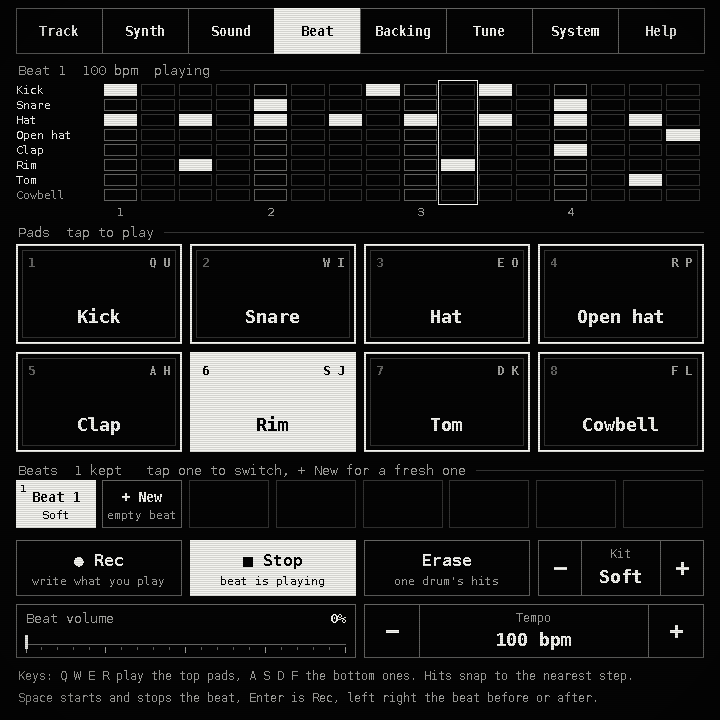
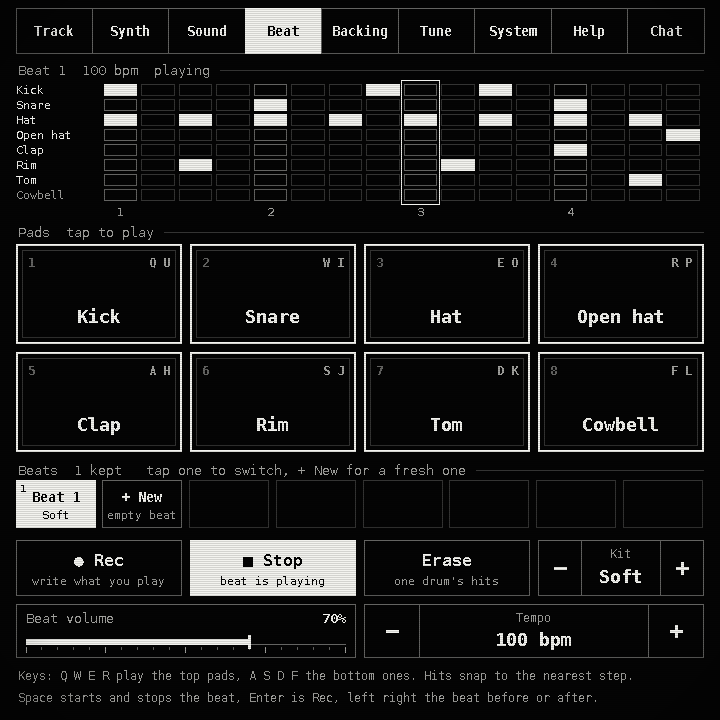
Version 0.12.1: docs corrected, cards and pictures updated

diff --git a/app/main.cpp b/app/main.cpp
@@ -29,7 +29,7 @@ int main(int argc, char **argv) {
         else if (a == "--shots" && i + 1 < argc) shots = argv[++i];
         else if (a == "--render" && i + 1 < argc) render = argv[++i];
         else if (a == "--audio" && i + 1 < argc) prefer = argv[++i];
-        else if (a == "--version") { std::printf("vrequency 0.12.0\n"); return 0; }
+        else if (a == "--version") { std::printf("vrequency 0.12.1\n"); return 0; }
         else if (a == "--help" || a == "-h") {
             std::printf("venv-vrequency - pocket string synthesiser\n\n"
                         "  vrequency               start full screen\n"

diff --git a/docs/STATUS.md b/docs/STATUS.md
@@ -1,12 +1,12 @@
 # Status — what works, what is unproven, what is missing
 
-Version 0.12.0, 2026-11-14 (0.12.0 is 0.11.0 plus guided help: the copilot can ring the controls it is talking about, the player answers from a chat dock on any page, and the Help page is redesigned around both. 0.11.0 was 0.10.0 twice over, merged: kept beats on the Beat page — + New starts an empty beat and keeps the others, switched on the next bar line — and a Chat page with a control socket, so an AI copilot can play and edit the app live and talk with the player. 0.9.0 was 0.8.1 plus a lane mixer on the Track page: a level, mute, solo and meter for each of the four lanes, saved with the track and heard in an export. 0.8.1 was 0.8.0 plus a fix: the scope no longer takes a whole processor core to draw while sound plays. 0.8.0: 0.7.0 plus a sound picker on the Track page: a placed clip can play as one of eighteen new Keys, Guitar and Bass sounds, any of your own sounds or another kit, with an octave shift. 0.7.0 was 0.6.0 plus a Track page for arranging kept beats, chords and loops on lanes, with chop, cycle and export; the tabs now start with Track and the Play page is called Synth. 0.6.0 added the Beat page and Play last, 0.5.0 five sine-based "dream" sounds, 0.4.0 the Glitch touch-pad mapping). "Tested" below means an automated test measured it; it does **not** mean a
+Version 0.12.1, 2026-11-14 (0.12.1 is 0.12.0 plus bug fixes: every armed mode (Delete, Store, Erase, track remove) clears when the page changes by any route; the key test panel swallows touches; the favourites page button goes back and forward; saving a favourite under an existing name updates it; one tempo step (1 bpm) on every page; the Backing step control is labelled Arp only because Pulse ignores it; docs corrected. Tests: 522 engine, 343 app checks. 0.12.0 is 0.11.0 plus guided help: the copilot can ring the controls it is talking about, the player answers from a chat dock on any page, and the Help page is redesigned around both. 0.11.0 was 0.10.0 twice over, merged: kept beats on the Beat page — + New starts an empty beat and keeps the others, switched on the next bar line — and a Chat page with a control socket, so an AI copilot can play and edit the app live and talk with the player. 0.9.0 was 0.8.1 plus a lane mixer on the Track page: a level, mute, solo and meter for each of the four lanes, saved with the track and heard in an export. 0.8.1 was 0.8.0 plus a fix: the scope no longer takes a whole processor core to draw while sound plays. 0.8.0: 0.7.0 plus a sound picker on the Track page: a placed clip can play as one of eighteen new Keys, Guitar and Bass sounds, any of your own sounds or another kit, with an octave shift. 0.7.0 was 0.6.0 plus a Track page for arranging kept beats, chords and loops on lanes, with chop, cycle and export; the tabs now start with Track and the Play page is called Synth. 0.6.0 added the Beat page and Play last, 0.5.0 five sine-based "dream" sounds, 0.4.0 the Glitch touch-pad mapping). "Tested" below means an automated test measured it; it does **not** mean a
 person heard it or pressed a physical key. Those checks are listed separately.
 
 ## Working and covered by automated tests
 
 `vrequency_tests` renders audio offline and measures it (522 checks). `vrequency --selftest` drives the real
-application with real key and touch events while the real audio thread runs (311 checks; one of them, "audio backend opened", can only pass with a real audio backend).
+application with real key and touch events while the real audio thread runs (343 checks; one of them, "audio backend opened", can only pass with a real audio backend).
 
 | Area | What the tests establish |
 |---|---|
@@ -108,7 +108,7 @@ Nobody has yet confirmed any of these. See the test list at the end of this file
 - **Windowed mode** (`--windowed`) gets an odd size from GNOME on this screen; full screen is the default and is what was designed.
 - **Key remapping** is by editing `~/vrequency/keymap.json`; there is no on-screen editor.
 - **Record** captures what you play from the moment you press it. Only the Track page's Export renders offline.
-- **Track**: clips sit on whole bars; nothing can be placed off the bar line or made shorter than a bar except by muting chopped pieces. One Beat lane, one Chords lane, two Loop lanes. No per-lane volume: the Beat, Backing and Loop volume sliders apply. A clip's chord style is fixed when it is kept; its sound or kit can be changed afterwards with Sound. Chords clips follow the current key and scale, and all clips the current tempo; there are no tempo or key changes inside a track. Clips cannot be renamed.
+- **Track**: clips sit on whole bars; nothing can be placed off the bar line or made shorter than a bar except by muting chopped pieces. One Beat lane, one Chords lane, two Loop lanes. Each lane has its own level, mute and solo on the Mix strips (0.9.0). A clip's chord style is fixed when it is kept; its sound or kit can be changed afterwards with Sound. Chords clips follow the current key and scale, and all clips the current tempo; there are no tempo or key changes inside a track. Clips cannot be renamed.
 - **Bluetooth speakers stutter while the Bluetooth settings window is open** (the adapter keeps scanning). Seen with a JBL Go 4 on 2026-11-13: "well for 5 s, then jittery"; closing the window cured it, confirmed by ear by the player. Not something the app can change; it is in the guide's trouble table.
 - **Kept beats**: no delete, rename or copy yet; empty beats stay in the row once made (+ New will not make a second empty one in a row). A saved session holds only the beat shown. Nobody has yet used the row on the device.
 - **Lane mixer**: four lanes only, no pan, no effects, no master fader (master volume stays on the System page) and no swing. The beat lane's level is set on each drum hit as it starts, so moving its fader changes the next hit, not one already ringing. The beat lane's meter shows the whole drum sound, so a live beat played over the track shows on it too. Nobody has yet heard the mixer on the device or moved a fader by finger.

diff --git a/docs/GUIDE.md b/docs/GUIDE.md
@@ -1,6 +1,6 @@
 # How to use venv-vrequency
 
-A guide to playing the synth, page by page. Everything here describes version 0.11.0 with the
+A guide to playing the synth, page by page. Everything here describes version 0.12.1 with the
 default key bindings.
 
 The short version is also built into the app: press `Ctrl`+`H`, or tap Menu and then the Help tab.
@@ -45,8 +45,9 @@ saves your setup (sounds, key, tempo, settings) and it comes back the same next 
    Let go of `F` and it slides back to `A`.
 3. Press `1` to `9` and `0` to try the ten sounds. On the Q20 the digits are on the number layer.
 4. Drag a finger across the scope at the top of the screen. That changes the tone.
-5. Tap two or three of the chord pads (Am, C, Em ...), then tap Play next to them. The chords loop
-   and you can play over them.
+5. Tap two or three of the chord pads (Am, C, Em ...). The first tap starts the backing, and the
+   chords loop as you add them, so you can play over them. (The Play button next to the pads stops
+   it, and starts it again.)
 6. Press `Backspace` if anything gets stuck. It silences everything.
 
 Every key is locked to a scale, so nothing you press is a wrong note.
@@ -78,8 +79,8 @@ The bottom row:
 - **Sus**: sustain stays on until you tap it again.
 - **− / +**: octave down or up.
 - **New**: invents a new random sound.
-- **Menu**: opens the other pages. They have tabs along the top: Track, Synth, Sound, Beat,
-  Backing, Tune, System, Help.
+- **Menu**: opens the Sound page, which has the tab strip along the top for all the other pages:
+  Track, Synth, Sound, Beat, Backing, Tune, System, Help and Chat, in that order.
 
 `Tab` steps through the pages and `Esc` returns to Synth.
 
@@ -168,7 +169,10 @@ the sound has, twelve to a page, with Prev and Next at the bottom.
 
 - **A slot.** Tap **Store**, then tap the slot to put it in. This replaces what was in that slot and cannot be undone.
 - **A favourite.** Tap **Save** (`Ctrl`+`F`). Favourites are listed at the bottom of the page, six
-  to a page. Tap one to recall it. To remove one, tap **Delete** and then the favourite.
+  to a page. Tap one to recall it. The page button shows `‹ 1/2 ›`: tap its left half to go back a page,
+  its right half to go forward; both wrap round. To remove one, tap **Delete** and then the favourite.
+  Saving under a name you already use updates that favourite (the toast says "Updated ...") instead of
+  adding a copy. Delete, Store and Erase only stay armed while you stay on their page.
 
 Factory sounds can be put back at any time: System page, **Factory sounds**. That overwrites slots
 1 to 0. It leaves your own favourites alone and puts back any of the five dream sounds you deleted.
@@ -213,8 +217,10 @@ buttons at the top of the Backing page:
 To build a progression:
 
 1. Make sure the mode is Progression.
-2. Tap chords in the order you want. They fill the strip.
-3. Tap **Play**. Tap it again to stop.
+2. Tap chords in the order you want. They fill the strip. The first chord tap already starts the
+   backing, and the loop grows as you add chords.
+3. **Play** stops the backing, and starts it again from the first chord. Tapping it while the
+   backing is already running stops it.
 
 To change one chord, tap its slot and then tap the new chord. **Remove last** and **Clear all** are
 on the Backing page.
@@ -480,8 +486,7 @@ things above while you are on this page.
 
 The track is saved a moment after every change, and inside sessions.
 
-Things it does not do yet: clips shorter than a bar or placed off the bar line, a volume for each
-lane, a different sound for each layer of one loop, more than one beat lane, and tempo or key
+Things it does not do yet: clips shorter than a bar or placed off the bar line, a different sound for each layer of one loop, more than one beat lane, and tempo or key
 changes inside a track. Chords clips follow the key and scale you are in now, and every clip follows the
 current tempo.
 

diff --git a/README.md b/README.md
@@ -102,7 +102,7 @@ Tests:
 ```bash
 ./build/vrequency_tests                                   # 522 engine checks (offline rendering)
 ./build/vrequency_tests --bench                           # CPU at full polyphony
-QT_QPA_PLATFORM=offscreen ./build/vrequency --selftest    # 311 checks through the real app + audio thread
+QT_QPA_PLATFORM=offscreen ./build/vrequency --selftest    # 343 checks through the real app + audio thread (one needs a real audio backend)
 QT_QPA_PLATFORM=offscreen ./build/vrequency --audio null --render docs/shots   # redraw the pictures
 ```
 

diff --git a/docs/CONTROL.md b/docs/CONTROL.md
@@ -96,7 +96,7 @@ clamped. `get_params` lists every parameter with its value, range and default.
 ```
 
 ### save_favourite
-Saves the current sound as a favourite under `name` (1-24 characters).
+Saves the current sound as a favourite under `name` (1-24 characters). A favourite that already has exactly that name is updated in place (the reply has `"updated":true`).
 ```
 {"id":14,"cmd":"save_favourite","name":"Rook's pad"}
 ```
